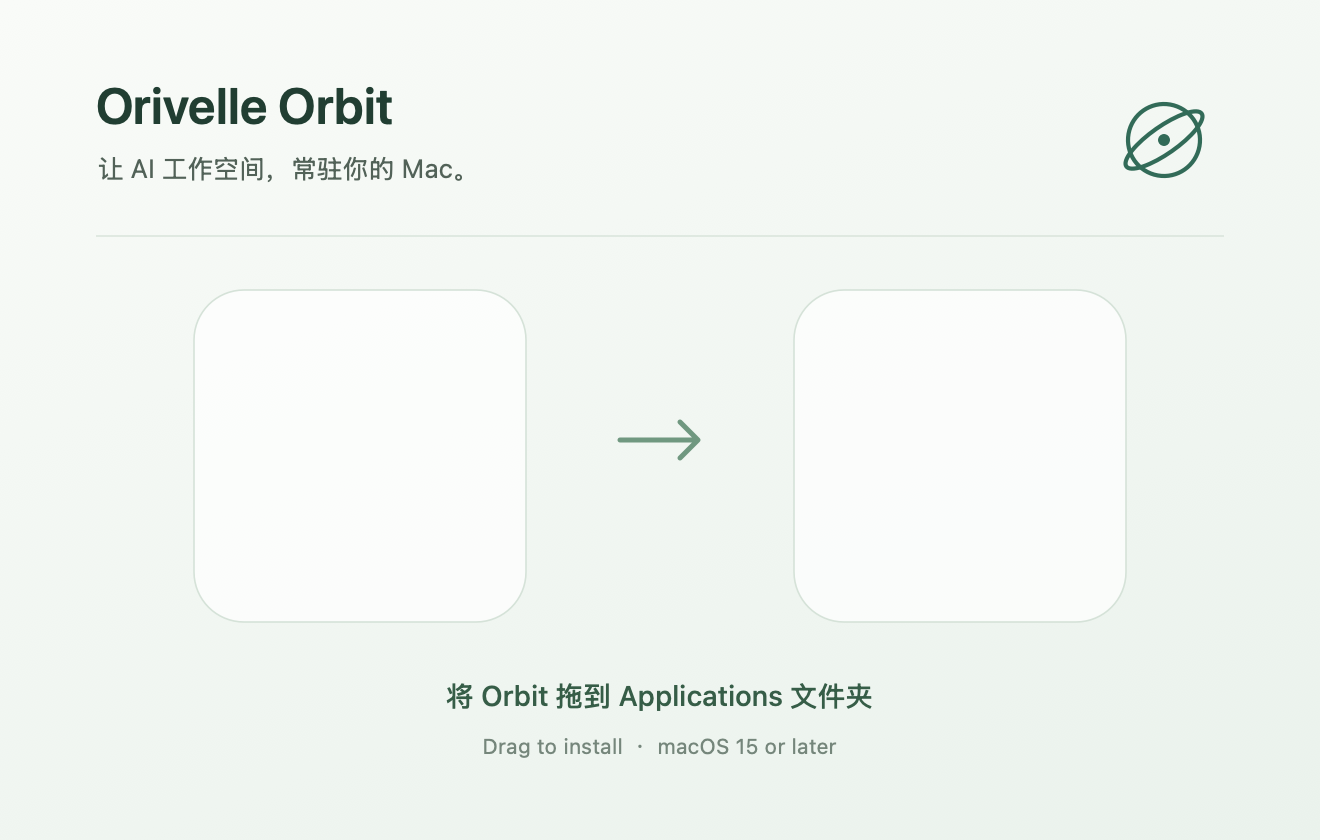
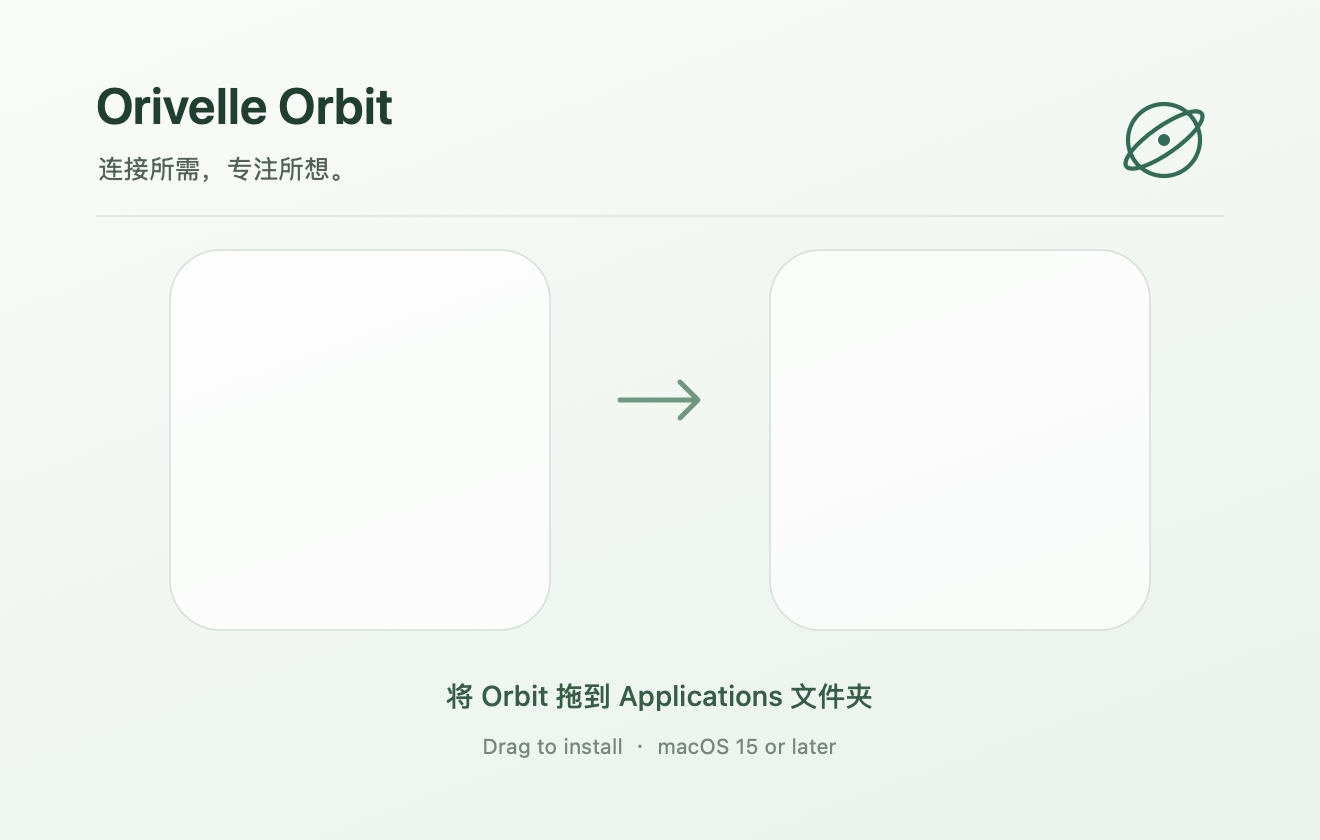
fix(dmg): refine subtitle and filename spacing

Changed region(s): [[0.0621, 0.1857, 0.3417, 0.2167], [0.4659, 0.4643, 0.528, 0.5571]]

diff --git a/scripts/render-dmg-background.swift b/scripts/render-dmg-background.swift
@@ -37,7 +37,7 @@ NSGradient(starting: color(0xf9fbf8), ending: color(0xeaf2ec))!
     .draw(in: NSRect(x: 0, y: 0, width: width, height: height), angle: -70)
 
 text("Orivelle Orbit", x: 48, top: 38, size: 25, weight: .semibold, ink: 0x213e32)
-text("让 AI 工作空间，常驻你的 Mac。", x: 49, top: 76, size: 13)
+text("连接所需，专注所想。", x: 49, top: 76, size: 13)
 
 // Use the same orbit geometry and green as src/assets/orbit-mark.svg.
 graphics.cgContext.saveGState()
@@ -56,13 +56,15 @@ graphics.cgContext.restoreGState()
 
 color(0xd7e3d9).setStroke()
 let divider = NSBezierPath()
-divider.move(to: NSPoint(x: 48, y: 302))
-divider.line(to: NSPoint(x: 612, y: 302))
+divider.move(to: NSPoint(x: 48, y: 312))
+divider.line(to: NSPoint(x: 612, y: 312))
 divider.lineWidth = 0.7
 divider.stroke()
 
 for center: CGFloat in [180, 480] {
-    let card = NSBezierPath(roundedRect: NSRect(x: center - 83, y: 109, width: 166, height: 166),
+    // Finder draws the filename below the 128-point icon. Reserve space for
+    // both, including bottom padding, rather than framing only the icon.
+    let card = NSBezierPath(roundedRect: NSRect(x: center - 95, y: 105, width: 190, height: 190),
                             xRadius: 25, yRadius: 25)
     color(0xffffff, alpha: 0.70).setFill()
     card.fill()
@@ -71,11 +73,11 @@ for center: CGFloat in [180, 480] {
     card.stroke()
 }
 let arrow = NSBezierPath()
-arrow.move(to: NSPoint(x: 310, y: 200))
-arrow.line(to: NSPoint(x: 349, y: 200))
-arrow.move(to: NSPoint(x: 340, y: 209))
-arrow.line(to: NSPoint(x: 349, y: 200))
-arrow.line(to: NSPoint(x: 340, y: 191))
+arrow.move(to: NSPoint(x: 310, y: 220))
+arrow.line(to: NSPoint(x: 349, y: 220))
+arrow.move(to: NSPoint(x: 340, y: 229))
+arrow.line(to: NSPoint(x: 349, y: 220))
+arrow.line(to: NSPoint(x: 340, y: 211))
 arrow.lineWidth = 2.5
 arrow.lineCapStyle = .round
 arrow.lineJoinStyle = .round
